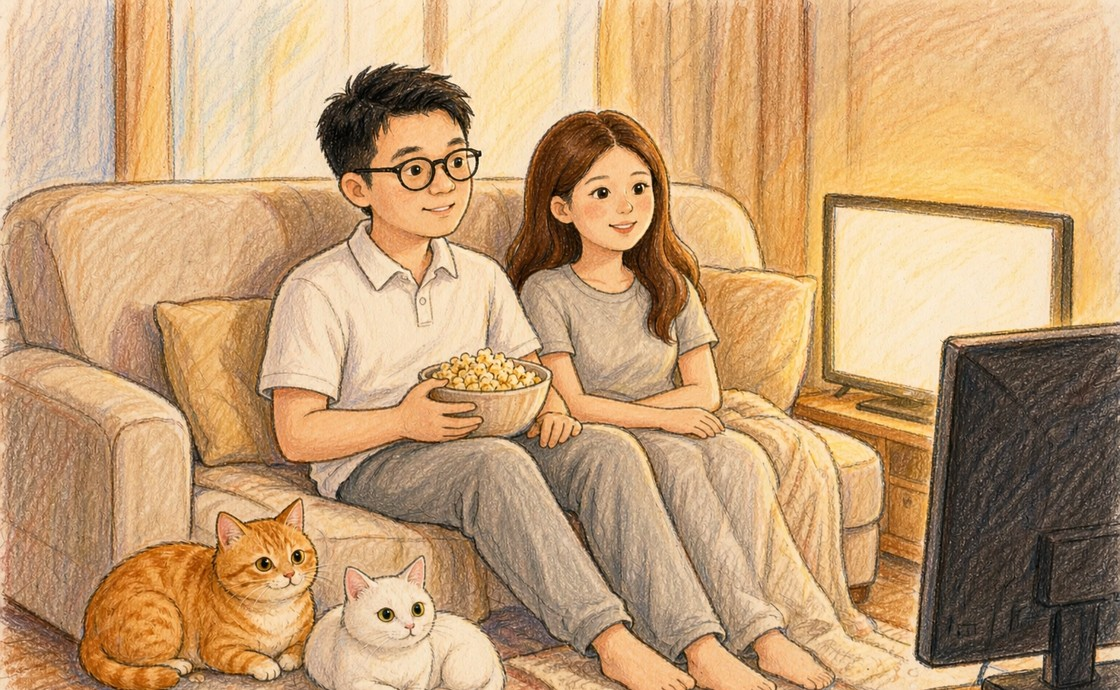
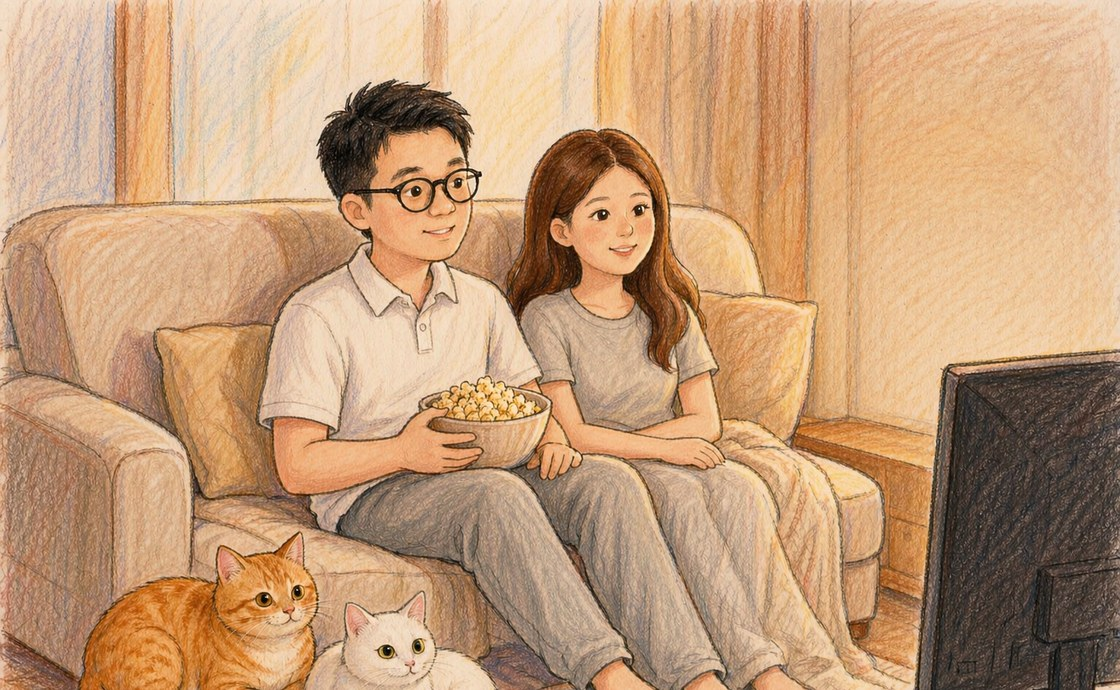
第五轮：全局4键导航；第5站港珠澳大桥珠海口岸(黑色Model 3/女生目送)；第6站换婚宴厅背景；第4站去掉身旁电视；第3站文案精简

diff --git a/index.html b/index.html
@@ -93,7 +93,7 @@ button{font:inherit;color:inherit;background:none;border:0;cursor:pointer}
 
 /* 顶部小字 */
 .hud{
-  position:relative;z-index:40;padding:calc(16px + env(safe-area-inset-top)) 22px 6px;
+  position:relative;z-index:40;padding:calc(58px + env(safe-area-inset-top)) 22px 6px;
   text-align:center;flex:none;
 }
 .hud-k{
@@ -175,7 +175,7 @@ button{font:inherit;color:inherit;background:none;border:0;cursor:pointer}
 /* 3.1 游戏 HUD */
 .ghud{
   position:relative;z-index:40;flex:none;
-  padding:calc(12px + env(safe-area-inset-top)) 18px 10px;
+  padding:calc(54px + env(safe-area-inset-top)) 18px 10px;
   background:linear-gradient(to bottom,rgba(247,199,94,.0),rgba(247,199,94,0));
 }
 .ghud-grid{display:grid;grid-template-columns:1fr 1fr;gap:4px 10px}
@@ -424,7 +424,7 @@ button{font:inherit;color:inherit;background:none;border:0;cursor:pointer}
 #s-info{background:linear-gradient(180deg,#FBDC88 0%,#F7C55E 26%,#E9BC72 62%,#E3B76A 100%);
   overflow-y:auto;-webkit-overflow-scrolling:touch}
 #s-info.is-active{display:block}
-.info-inner{padding:calc(16px + env(safe-area-inset-top)) 20px calc(34px + env(safe-area-inset-bottom));max-width:460px;margin:0 auto}
+.info-inner{padding:calc(58px + env(safe-area-inset-top)) 20px calc(34px + env(safe-area-inset-bottom));max-width:460px;margin:0 auto}
 .info-rig{
   height:96px;margin:-4px -20px 6px;
   background:url("assets/wedding.jpg") no-repeat;background-size:cover;background-position:50% 36%;
@@ -639,12 +639,26 @@ button{font:inherit;color:inherit;background:none;border:0;cursor:pointer}
   transition:opacity .28s ease, transform .28s ease;white-space:nowrap;
 }
 .toast.show{opacity:1;transform:translate(-50%,0)}
-.backtop{
-  position:fixed;left:14px;bottom:calc(18px + env(safe-area-inset-bottom));z-index:880;
-  width:42px;height:42px;border-radius:50%;display:none;place-items:center;
-  background:rgba(46,26,13,.66);border:1.5px solid rgba(253,235,184,.4);color:#FDEBB8;
+/* 全局导航条：回到首页 / 上页 / 下页 / 直达婚礼信息 */
+.navbar{
+  position:fixed;left:50%;transform:translateX(-50%);
+  top:calc(9px + env(safe-area-inset-top));z-index:790;
+  display:flex;align-items:center;gap:7px;
+  padding:4px 7px;border-radius:999px;
+  background:rgba(46,26,13,.5);
+  border:1px solid rgba(253,235,184,.28);
+  box-shadow:0 3px 10px rgba(0,0,0,.2);
+  -webkit-backdrop-filter:blur(4px);backdrop-filter:blur(4px);
 }
-.backtop.show{display:grid}
+.navbar button{
+  width:30px;height:30px;border-radius:50%;display:grid;place-items:center;
+  color:#FDEBB8;background:rgba(253,235,184,.12);
+  border:1px solid rgba(253,235,184,.22);
+  transition:transform .15s ease,opacity .2s ease,background .2s ease;
+}
+.navbar button svg{width:16px;height:16px}
+.navbar button:active{transform:scale(.9)}
+.navbar button:disabled{opacity:.28}
 
 /* 飞行宝物（收集动画） */
 .flyer{position:fixed;z-index:870;pointer-events:none;width:62px;height:62px;
@@ -988,9 +1002,21 @@ button{font:inherit;color:inherit;background:none;border:0;cursor:pointer}
 <button class="music" id="btnMusic" aria-label="背景音乐" data-page-node-id="o8yRGFTKuEKSpLgmH5nIWR">
   <svg viewBox="0 0 24 24" fill="currentColor" data-page-node-id="Kq35faAesmDcM9bOgEKdxR"><path d="M12 3v10.6A4 4 0 1 0 14 17V7h4V3z" data-page-node-id="P1aW7tbxBrnp0YE6JCEbGq"/></svg>
 </button>
-<button class="backtop" id="btnTop" aria-label="回到封面" data-page-node-id="sok3W3eTVJ3bLUoOYY0kMF">
-  <svg viewBox="0 0 24 24" fill="none" stroke="currentColor" stroke-width="2.2" stroke-linecap="round" stroke-linejoin="round" data-page-node-id="0MfDFBFWKLy80hxlBnBpHQ"><path d="M4 11l8-8 8 8M12 3v18" data-page-node-id="uiDuHD8DqknF3SJjQNXoKg"/></svg>
-</button>
+<!-- 全局导航：回到首页 / 上页 / 下页 / 直达婚礼信息 -->
+<nav class="navbar" id="navbar" aria-label="页面导航">
+  <button id="navHome" aria-label="回到首页" title="回到首页">
+    <svg viewBox="0 0 24 24" fill="none" stroke="currentColor" stroke-width="2" stroke-linecap="round" stroke-linejoin="round"><path d="M4 11.4 12 4l8 7.4"/><path d="M6.6 10.4V20h10.8v-9.6"/></svg>
+  </button>
+  <button id="navPrev" aria-label="上一页" title="上一页">
+    <svg viewBox="0 0 24 24" fill="none" stroke="currentColor" stroke-width="2.2" stroke-linecap="round" stroke-linejoin="round"><path d="M15 5l-7 7 7 7"/></svg>
+  </button>
+  <button id="navNext" aria-label="下一页" title="下一页">
+    <svg viewBox="0 0 24 24" fill="none" stroke="currentColor" stroke-width="2.2" stroke-linecap="round" stroke-linejoin="round"><path d="M9 5l7 7-7 7"/></svg>
+  </button>
+  <button id="navInfo" aria-label="直达婚礼信息" title="直达婚礼信息">
+    <svg viewBox="0 0 24 24" fill="none" stroke="currentColor" stroke-width="2" stroke-linecap="round" stroke-linejoin="round"><circle cx="12" cy="12" r="8.6"/><path d="M12 11.2V16.6"/><path d="M12 7.6h.01"/></svg>
+  </button>
+</nav>
 <div class="toast" id="toast" data-page-node-id="6CJHCxB3jxCzYgDnXwCuZN"></div>
 
 <!-- 背景音乐：把你的 mp3 放到 assets/bgm.mp3 即可自动生效 -->
@@ -1029,7 +1055,7 @@ var CHAPTERS = [
   {
     tag: "每周六 · 夜里", title: "人潮里，一眼就认出他",
     img: "assets/port.jpg",
-    text: "郑洁漫在珠海工作。每个周六夜里，她都到港珠澳大桥到达层接他。人潮里，她一眼就认出他，<em>而他也总是小跑着过来</em>。"
+    text: "每个周六夜里，她都到港珠澳大桥到达层接他。人潮里，她一眼就认出他，<em>而他也总是小跑着过来</em>。"
   },
   {
     tag: "每周日 · 只有这一天", title: "只属于周日的小家",
@@ -1067,11 +1093,32 @@ function toast(msg) {
   var t = $("#toast"); t.textContent = msg; t.classList.add("show");
   clearTimeout(t._t); t._t = setTimeout(function () { t.classList.remove("show"); }, 1900);
 }
+var STAGE_ORDER = ["s-cover", "s-dig", "s-photos", "s-info", "s-end"];
+var albumReady = false;
+function curStage() {
+  var s = document.querySelector(".stage.is-active");
+  return s ? s.id : "s-cover";
+}
+function syncNav() {
+  var i = STAGE_ORDER.indexOf(curStage());
+  $("#navPrev").disabled = (i <= 0);
+  $("#navNext").disabled = (i >= STAGE_ORDER.length - 1);
+}
 function goStage(id) {
   var cur = document.querySelector(".stage.is-active");
   if (cur) cur.classList.remove("is-active");
   document.getElementById(id).classList.add("is-active");
-  $("#btnTop").classList.toggle("show", id !== "s-cover");
+  syncNav();
+}
+/* 导航条跳转：首页 / 上页 / 下页 / 直达婚礼信息 */
+function navGo(i) {
+  i = Math.max(0, Math.min(STAGE_ORDER.length - 1, i));
+  var id = STAGE_ORDER[i];
+  if (id === "s-cover") entered = false;
+  if (id === "s-photos" && !albumReady) {
+    albumReady = true; pIdx = 0; renderAlbum(PHOTOS[0]);
+  }
+  goStage(id);
 }
 
 /* ============================================================
@@ -1295,7 +1342,12 @@ $("#btnCopyForm").addEventListener("click", function () { copyText(CONFIG.rsvpUr
 $("#btnCopyAddr").addEventListener("click", function () { copyText(CONFIG.venueAddr, "地址已复制"); });
 $("#btnCloseRsvp").addEventListener("click", function () { $("#rsvp").classList.remove("is-open"); });
 $("#btnEnd").addEventListener("click", function () { goStage("s-end"); });
-$("#btnTop").addEventListener("click", function () { goStage("s-cover"); entered = false; });
+/* 全局导航条按钮 */
+function navClick(e, i) { e.stopPropagation(); navGo(i); }
+$("#navHome").addEventListener("click", function (e) { navClick(e, 0); });
+$("#navPrev").addEventListener("click", function (e) { navClick(e, STAGE_ORDER.indexOf(curStage()) - 1); });
+$("#navNext").addEventListener("click", function (e) { navClick(e, STAGE_ORDER.indexOf(curStage()) + 1); });
+$("#navInfo").addEventListener("click", function (e) { navClick(e, STAGE_ORDER.indexOf("s-info")); });
 
 /* ============================================================
    背景音乐
@@ -1328,6 +1380,7 @@ if (typeof WeixinJSBridge !== "undefined") {
 
 /* 初始化 */
 syncHud();
+syncNav();
 </script>
 </body>
 </html>
